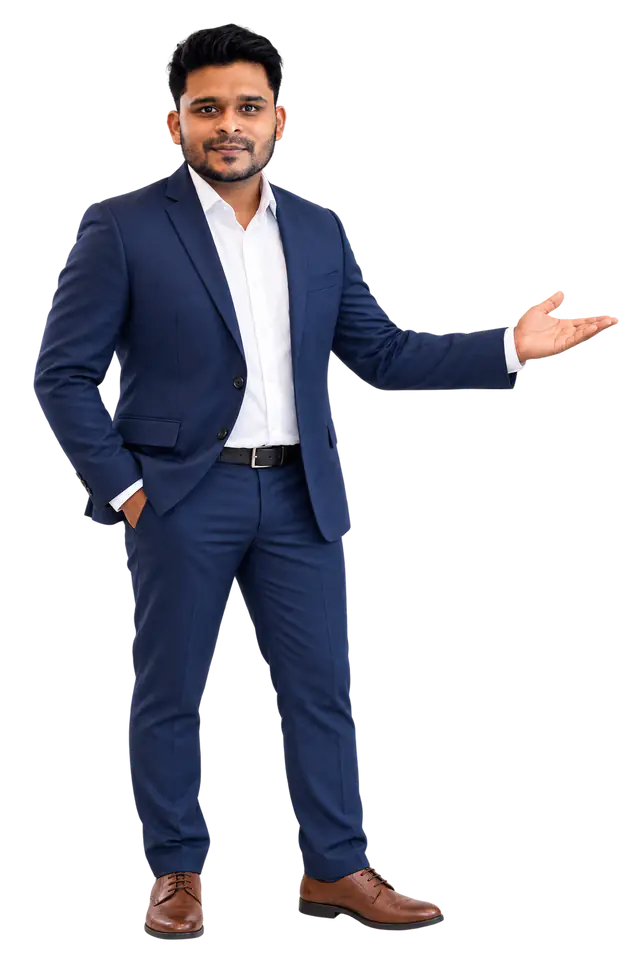
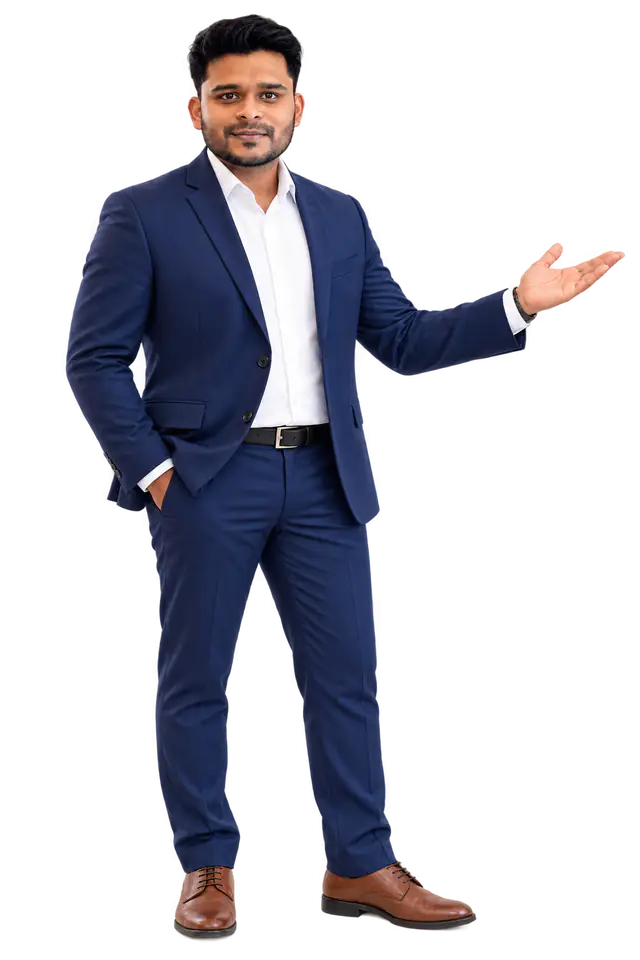
feat(trip): the owner's new host picture; a 1200px opening picture for 2x phones; boarding-pass mask after load

Changed region(s): [[0.0312, 0.0, 0.9688, 1.0]]

diff --git a/src/components/CinematicExperience/assets.ts b/src/components/CinematicExperience/assets.ts
@@ -23,18 +23,23 @@ export interface FilmAsset {
   h: number;
   /** Width of the phone copy, for srcset. */
   phoneW: number;
+  /** In-between sizes, where one matters (the opening picture on a 2x phone). */
+  more?: ReadonlyArray<{ src: string; w: number }>;
 }
 
-const asset = (file: string, w: number, h: number, phoneW = 960): FilmAsset => ({
+const asset = (file: string, w: number, h: number, phoneW = 960, more: number[] = []): FilmAsset => ({
   src: `${DIR}/${file}.webp`,
   phone: `${DIR}/${file}-960.webp`,
   w,
   h,
   phoneW,
+  more: more.map((mw) => ({ src: `${DIR}/${file}-${mw}.webp`, w: mw })),
 });
 
 export const ASSETS = {
-  traveler: asset("01-human-suitcase", 1600, 901),
+  // A 2x phone shows the opening picture about 1200px wide: without the
+  // 1200 copy it would take the 1600 one (242 KB rather than 158 KB).
+  traveler: asset("01-human-suitcase", 1600, 901, 960, [1200]),
   passport: asset("02-passport", 1600, 902),
   boardingPass: asset("03-boarding-pass", 1600, 903),
   airplane: asset("04-airplane", 1600, 900),
@@ -52,7 +57,8 @@ export const ASSETS = {
 
 export type AssetKey = keyof typeof ASSETS;
 
-export const srcSetOf = (a: FilmAsset) => `${a.phone} ${a.phoneW}w, ${a.src} ${a.w}w`;
+export const srcSetOf = (a: FilmAsset) =>
+  [`${a.phone} ${a.phoneW}w`, ...(a.more ?? []).map((m) => `${m.src} ${m.w}w`), `${a.src} ${a.w}w`].join(", ");
 
 /**
  * Points inside the pictures that the choreography aims at, as fractions of

diff --git a/src/components/CinematicExperience/Scene14FinalCta.tsx b/src/components/CinematicExperience/Scene14FinalCta.tsx
@@ -20,7 +20,7 @@ import { Scene15CtaToForm } from "./Scene15CtaToForm";
  *
  * Desktop: host bottom-left at --host-h tall; the copy's left edge is set from
  * the same variable, so it stays by his palm at every width (the palm sits
- * about 85% across and a third of the way down the picture). Below lg he
+ * about 88% across and 29% of the way down the picture). Below lg he
  * stands above the headline at a smaller scale, the same order of events.
  */
 export function Scene14FinalCta({ onApply }: { onApply: (e: MouseEvent<HTMLAnchorElement>) => void }) {
@@ -54,7 +54,7 @@ export function Scene14FinalCta({ onApply }: { onApply: (e: MouseEvent<HTMLAncho
         </div>
 
         {/* The offer, beside his open hand. */}
-        <div className="absolute inset-x-6 top-[56svh] z-[30] lg:inset-x-auto lg:bottom-[calc(var(--host-h)*0.67-8rem)] lg:left-[calc(7vw+var(--host-h)*0.61)] lg:right-[5vw] lg:top-auto">
+        <div className="absolute inset-x-6 top-[56svh] z-[30] lg:inset-x-auto lg:bottom-[calc(var(--host-h)*0.71-8rem)] lg:left-[calc(7vw+var(--host-h)*0.61)] lg:right-[5vw] lg:top-auto">
           <h2
             id="cx-cta-title"
             data-cx="cta-headline"

diff --git a/src/components/CinematicExperience/cinematic.css b/src/components/CinematicExperience/cinematic.css
@@ -154,8 +154,10 @@
 }
 
 /* The boarding pass's light sweep is clipped to the pass itself: the mask is
-   the pass's own picture, so the light only lands on paper. */
-.cx-mask-boarding {
+   the pass's own picture, so the light only lands on paper. Only once the
+   page has loaded (data-cx-ready), so the mask is not one more download
+   competing with the opening frame. */
+[data-cx-ready] .cx-mask-boarding {
   -webkit-mask-image: url("/free-china-trip/03-boarding-pass-960.webp");
   mask-image: url("/free-china-trip/03-boarding-pass-960.webp");
   -webkit-mask-size: 100% 100%;

diff --git a/src/components/CinematicExperience/CinematicExperience.tsx b/src/components/CinematicExperience/CinematicExperience.tsx
@@ -89,6 +89,7 @@ function startLoader(root: HTMLElement) {
     }
   };
   const kick = () => {
+    root.dataset.cxReady = "";
     if ("requestIdleCallback" in window) window.requestIdleCallback(() => void run(), { timeout: 2500 });
     else setTimeout(() => void run(), 600);
   };

diff --git a/src/components/CinematicExperience/README.md b/src/components/CinematicExperience/README.md
@@ -64,7 +64,8 @@ new table, no schema change.
 ## Pictures
 
 `public/free-china-trip/`, WebP, each at full size and as a `-960` phone
-copy chosen by `srcset`: 3.2 MB and 1.4 MB for the two sets, from 25 MB of
+copy chosen by `srcset` (the opening picture also at 1200px, for 2x phones):
+3.2 MB and 1.4 MB for the two sets, from 25 MB of
 PNG. The source PNGs are not shipped. Only the opening picture loads with the
 page; the rest are fed in after load, in film order (`CinematicExperience.tsx`).
 To replace a picture, keep its file name and update `w`/`h` in `assets.ts`;
